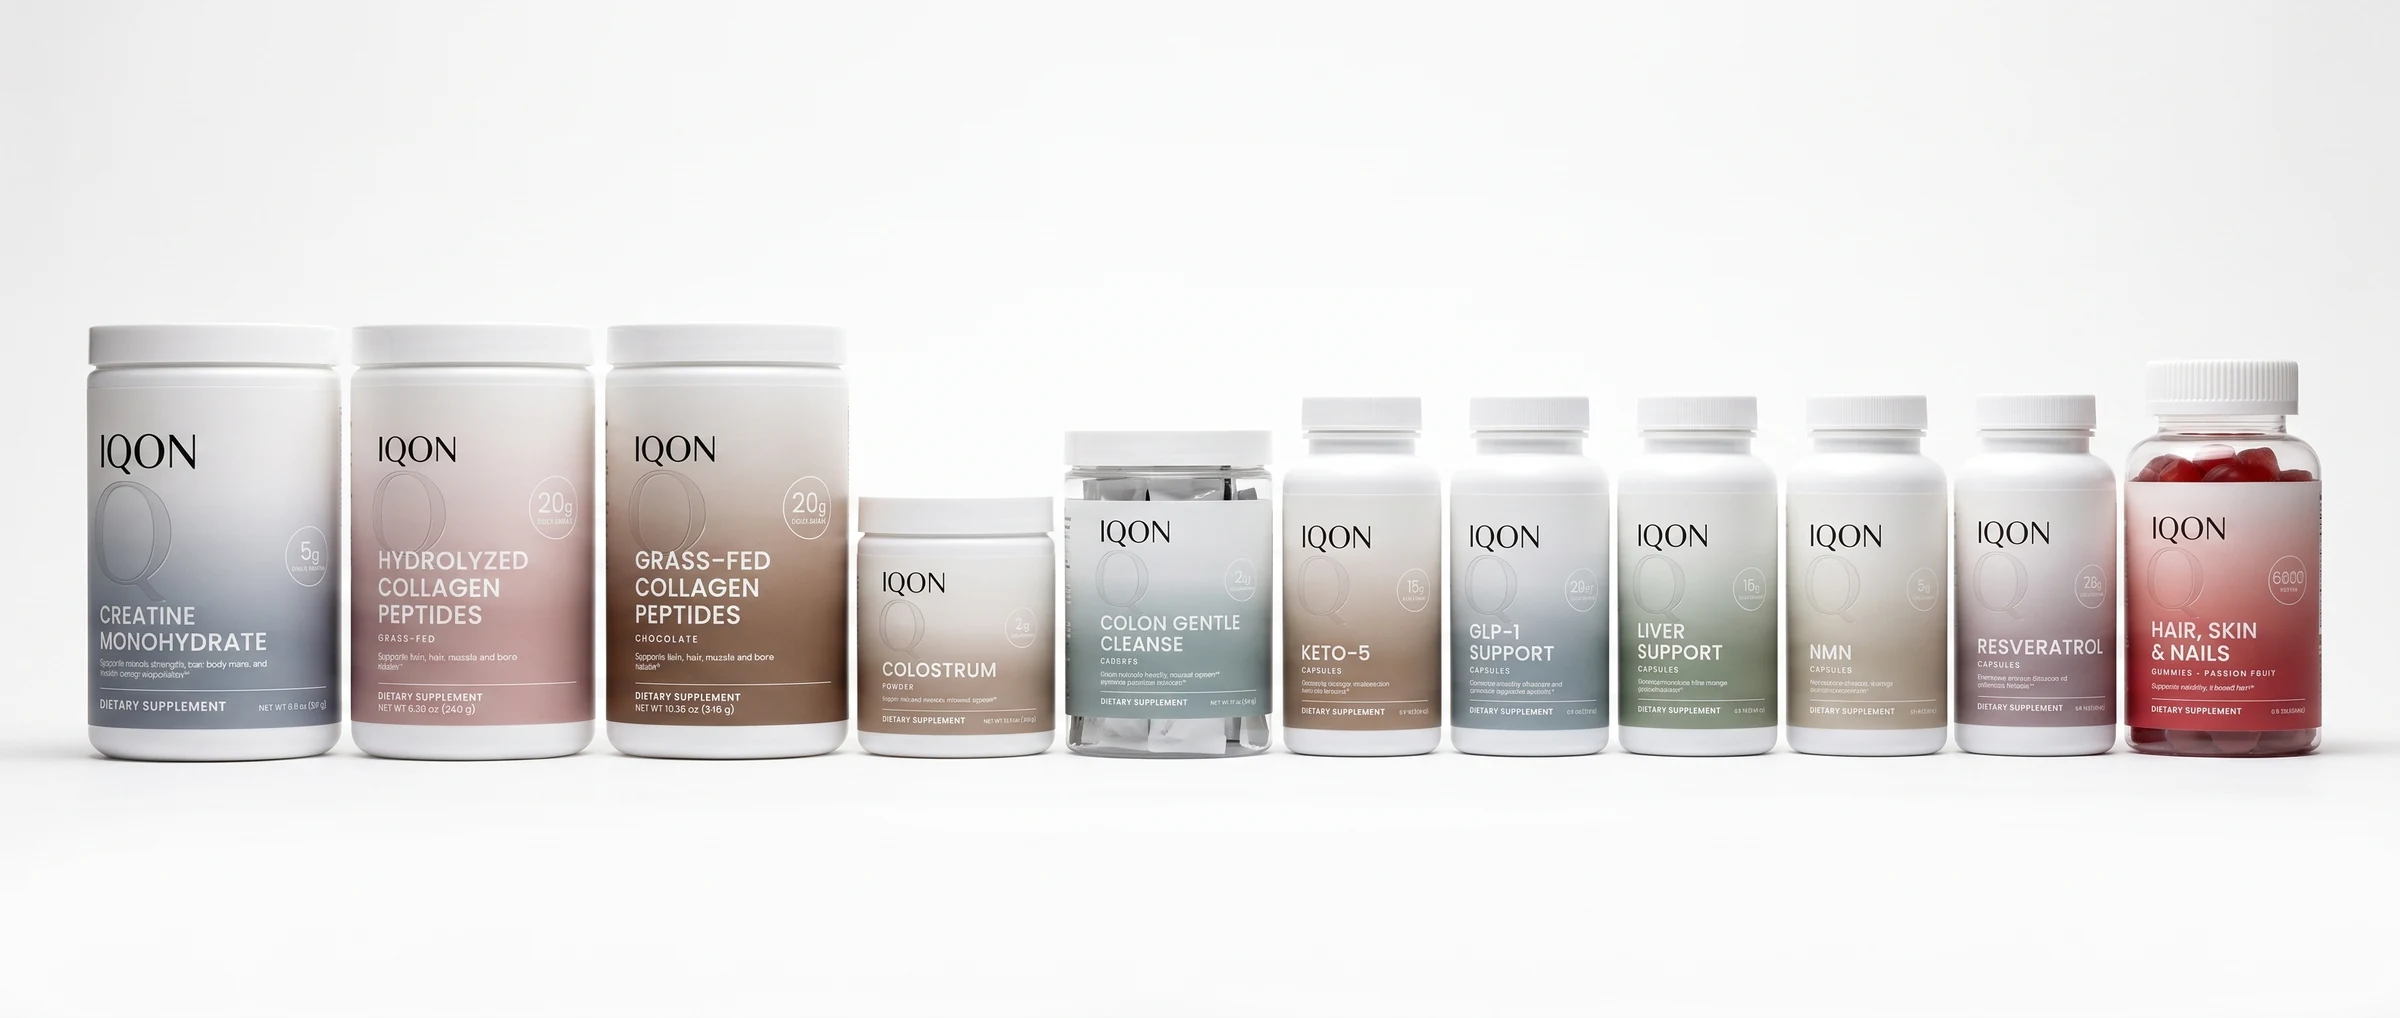
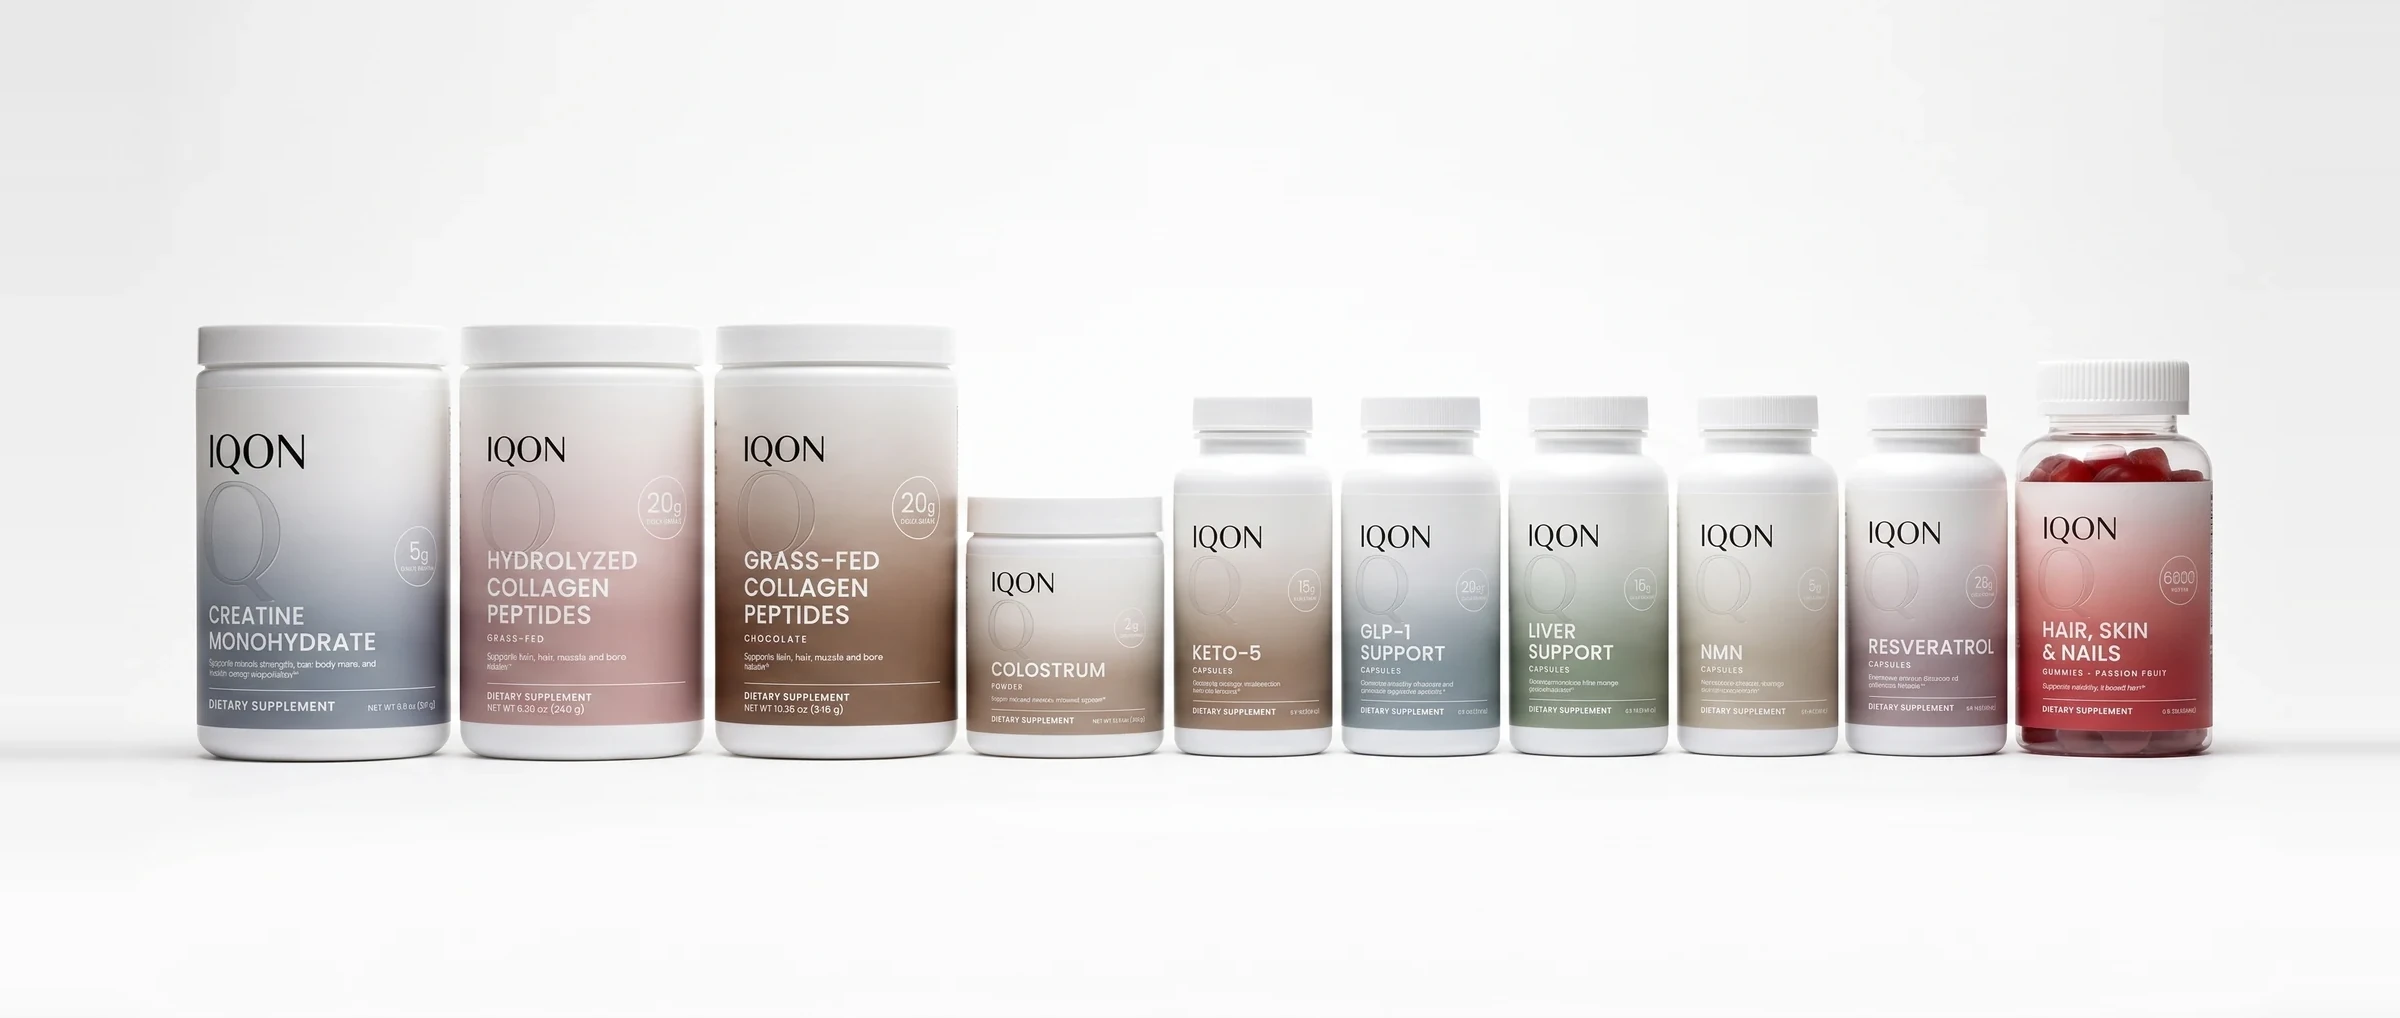
Remove the retired Colon jar from the full lineup photograph
20_group_all_row is the default share image and appears in the Explore menu and
affiliate page. The jar's column band is cut from the source pixels and the row
recentred on the seamless background; no product is redrawn.

Changed region(s): [[0.0312, 0.3045, 0.9688, 0.7613]]

diff --git a/docs/supplement-images.md b/docs/supplement-images.md
@@ -66,4 +66,4 @@ Gut Health imagery was produced locally from the final IQON label artwork (`IQON
 - `supplement-materials-v1/gut-health.webp`: mirrored copy of the generic Keto-5 capsule material photograph (no packaging shown). The actual Gut Health capsule appearance has not been photographed.
 - `email/products/gut-health.jpg`: 240×300 email thumbnail from the pack shot.
 
-The group scenes (`20_group_all_row`, `21_group_capsules_row`, `22_group_powders_row` and others) are unchanged and may still show the Colon Gentle Cleanse jar; they must be rebuilt or replaced in a separate, owner-approved image pass.
+Of the group scenes, only `20_group_all_row` showed the Colon Gentle Cleanse jar. Because it is the default share image and appears in the Explore menu and affiliate page, the jar was removed by cutting its column band out of the source pixels, crossfading the 12px seam in the white gap and extending the seamless background equally at both edges (same 2400×1018 size; no product was redrawn). The row now shows the other ten products and does not yet include Gut Health; a new lineup photograph is needed for that. All other group scenes are unchanged.
